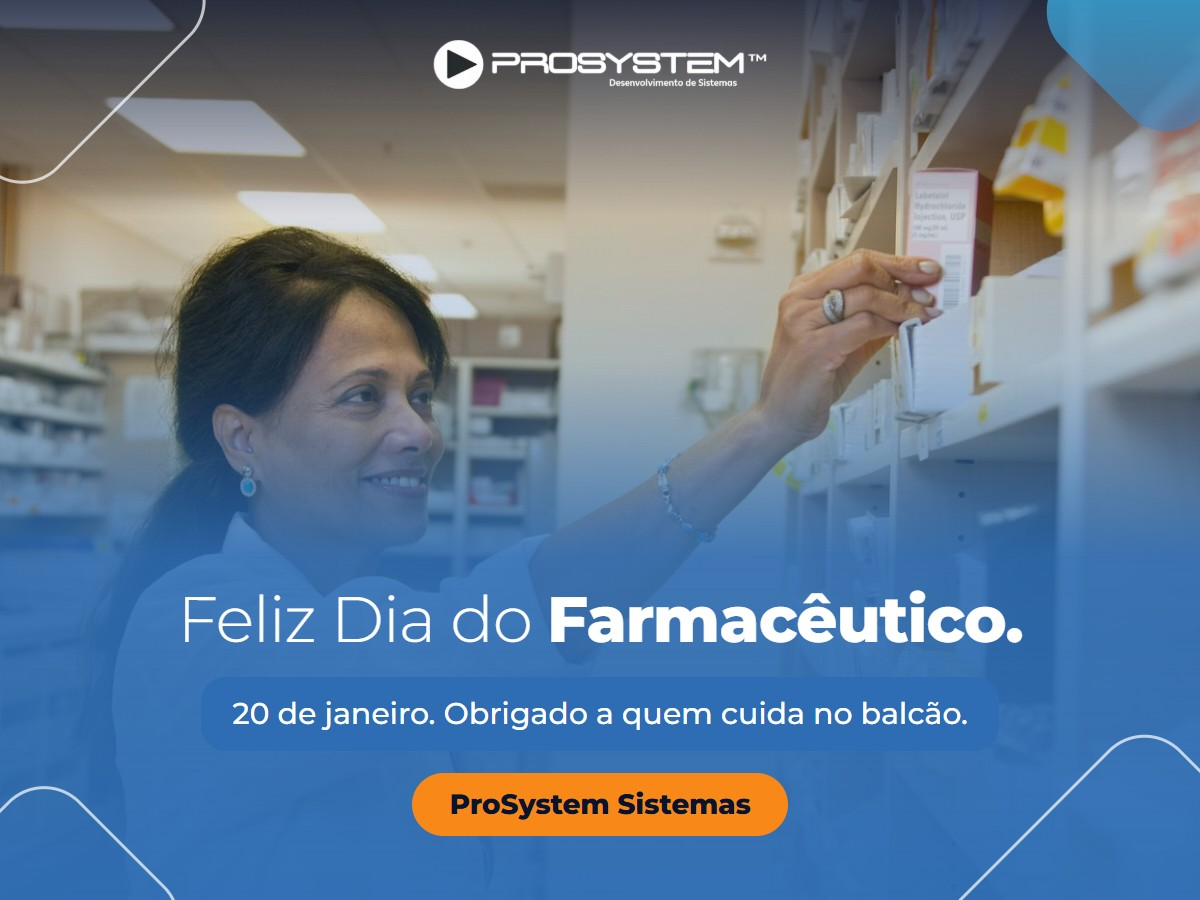
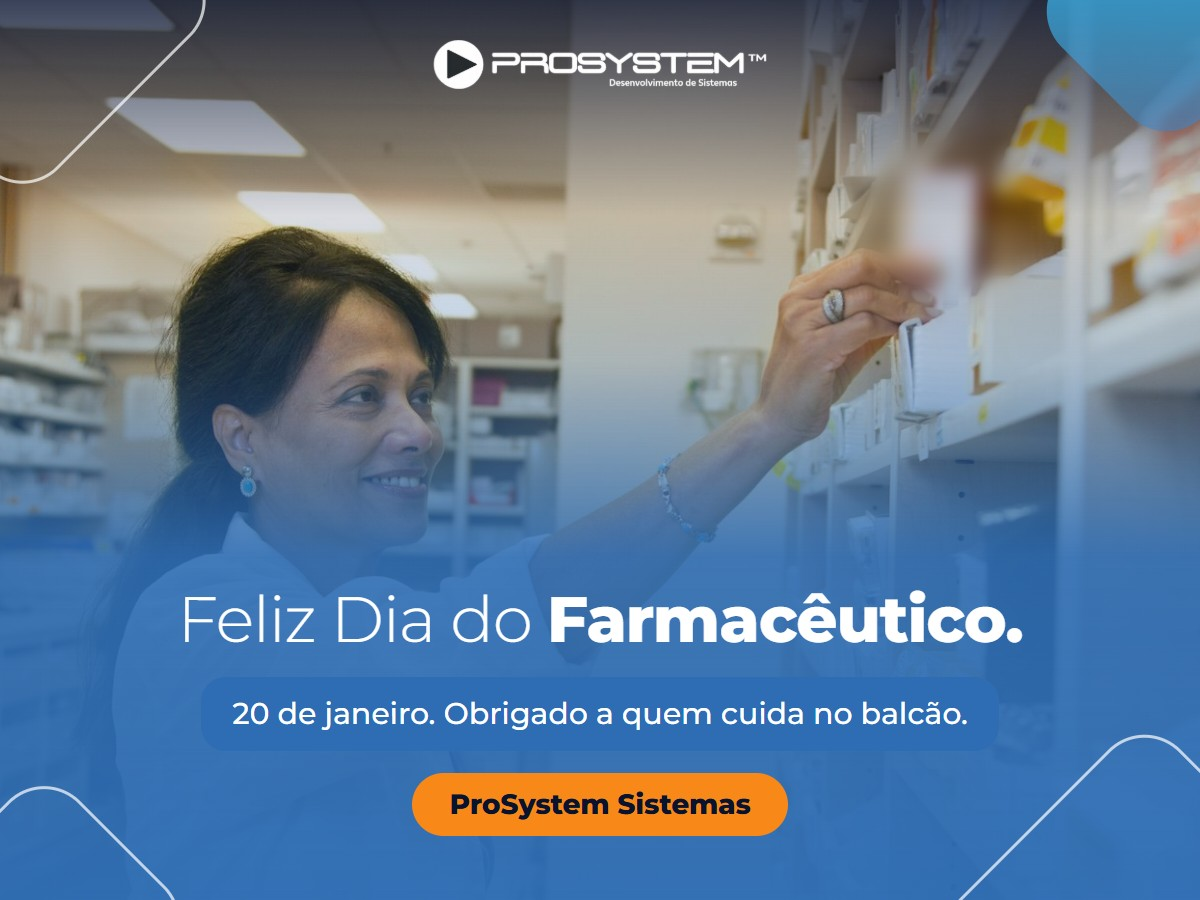
Postagens do Google de 05/11/2026 a 20/01/2027: 11 textos, imagens 1200x900 e guia para programar
Fotos desfocadas onde havia marca de remédio ou texto em inglês, e relatório da tarefa.

Changed region(s): [[0.7092, 0.1556, 0.8633, 0.3422]]

diff --git a/outputs/criativos/google-nov-jan/guia.html b/outputs/criativos/google-nov-jan/guia.html
@@ -84,7 +84,7 @@ button.copiar.ok{background:transparent;color:var(--azul)}
   <ol class="passos">
     <li><span>Entre na conta Google que administra o perfil da ProSystem e abra o <b>Perfil da Empresa</b> (pesquise "ProSystem Sistemas" no Google ou acesse business.google.com).</span></li>
     <li><span>Clique em <b>Adicionar atualização</b> (ou <b>Criar postagem</b>) e escolha o tipo <b>Atualização</b>.</span></li>
-    <li><span>Em <b>Adicionar fotos</b>, envie a imagem da ficha. Use o arquivo da pasta <code>outputs/criativos/google-nov-jan/imagens</code> ou abra o nome do arquivo na ficha e salve a imagem.</span></li>
+    <li><span>Em <b>Adicionar fotos</b>, envie a imagem da ficha. Clique com o botão direito na imagem da ficha e escolha <b>Salvar imagem como</b>. No computador, os mesmos arquivos estão em <code>outputs/criativos/google-nov-jan/imagens</code>.</span></li>
     <li><span>Clique em <b>Copiar texto</b> na ficha e cole na descrição.</span></li>
     <li><span>Em <b>Adicionar um botão</b>, escolha <b>Saiba mais</b> e cole o link da ficha.</span></li>
     <li><span>Ligue <b>Programar esta postagem</b> e escolha a data e a hora da ficha. Deixe <b>Repetições</b> desligado.</span></li>
@@ -143,7 +143,7 @@ button.copiar.ok{background:transparent;color:var(--azul)}
 <div><dt>Programar</dt><dd>05/11/2026 às 09:00</dd></div>
 <div><dt>Botão</dt><dd>Saiba mais</dd></div>
 <div><dt>Link</dt><dd><a href="https://prosystemnet.com/blog/simples-nacional-2027-prazo-opcao-ibs-cbs-farmacia-padaria/" target="_blank" rel="noopener">prosystemnet.com/blog/simples-nacional-2027-prazo-opcao-ibs-cbs-farmacia-padaria/</a><button class="copiar mini" data-alvo="l0">Copiar link</button><span hidden id="l0">https://prosystemnet.com/blog/simples-nacional-2027-prazo-opcao-ibs-cbs-farmacia-padaria/</span></dd></div>
-<div><dt>Imagem</dt><dd><a href="imagens/2026-11-05-reforma-tributaria-farmacia-2027.jpg" target="_blank" rel="noopener">2026-11-05-reforma-tributaria-farmacia-2027.jpg</a></dd></div>
+<div><dt>Imagem</dt><dd><code>2026-11-05-reforma-tributaria-farmacia-2027.jpg</code></dd></div>
 </dl>
 <div class="texto-topo"><span>Texto da postagem · 720 caracteres</span><button class="copiar" data-alvo="t0">Copiar texto</button></div>
 <pre class="texto" id="t0">Reforma tributária na farmácia: em 2027, a CBS entra no lugar do PIS e da Cofins, e o imposto muda dentro do preço de cada produto. Quem deixa a revisão para janeiro corre o risco de vender as primeiras semanas do ano com a margem errada.
@@ -167,7 +167,7 @@ No blog, veja o que muda no Simples Nacional em 2027 para farmácias e padarias.
 <div><dt>Programar</dt><dd>12/11/2026 às 09:00</dd></div>
 <div><dt>Botão</dt><dd>Saiba mais</dd></div>
 <div><dt>Link</dt><dd><a href="https://prosystemnet.com/blog/ficha-tecnica-padaria-padronizar-receitas-rendimento/" target="_blank" rel="noopener">prosystemnet.com/blog/ficha-tecnica-padaria-padronizar-receitas-rendimento/</a><button class="copiar mini" data-alvo="l1">Copiar link</button><span hidden id="l1">https://prosystemnet.com/blog/ficha-tecnica-padaria-padronizar-receitas-rendimento/</span></dd></div>
-<div><dt>Imagem</dt><dd><a href="imagens/2026-11-12-preco-pao-frances-ficha-tecnica.jpg" target="_blank" rel="noopener">2026-11-12-preco-pao-frances-ficha-tecnica.jpg</a></dd></div>
+<div><dt>Imagem</dt><dd><code>2026-11-12-preco-pao-frances-ficha-tecnica.jpg</code></dd></div>
 </dl>
 <div class="texto-topo"><span>Texto da postagem · 626 caracteres</span><button class="copiar" data-alvo="t1">Copiar texto</button></div>
 <pre class="texto" id="t1">Preço do pão francês: quando a farinha, o gás e a energia sobem e o preço na vitrine fica igual, a diferença sai do seu lucro. A Conab prevê produção de trigo 26% menor no Brasil em 2026, e entrar em 2027 com o preço antigo é vender muito e sobrar pouco.
@@ -188,7 +188,7 @@ No blog, veja como montar a ficha técnica da padaria e padronizar o rendimento 
 <div><dt>Programar</dt><dd>19/11/2026 às 09:00</dd></div>
 <div><dt>Botão</dt><dd>Saiba mais</dd></div>
 <div><dt>Link</dt><dd><a href="https://prosystemnet.com/blog/vender-mais-nao-e-lucrar-mais-margem-varejo/" target="_blank" rel="noopener">prosystemnet.com/blog/vender-mais-nao-e-lucrar-mais-margem-varejo/</a><button class="copiar mini" data-alvo="l2">Copiar link</button><span hidden id="l2">https://prosystemnet.com/blog/vender-mais-nao-e-lucrar-mais-margem-varejo/</span></dd></div>
-<div><dt>Imagem</dt><dd><a href="imagens/2026-11-19-black-friday-farmacia-desconto-margem.jpg" target="_blank" rel="noopener">2026-11-19-black-friday-farmacia-desconto-margem.jpg</a></dd></div>
+<div><dt>Imagem</dt><dd><code>2026-11-19-black-friday-farmacia-desconto-margem.jpg</code></dd></div>
 </dl>
 <div class="texto-topo"><span>Texto da postagem · 733 caracteres</span><button class="copiar" data-alvo="t2">Copiar texto</button></div>
 <pre class="texto" id="t2">Desconto na Black Friday: antes de colocar 10% em toda a loja, faça esta conta. Um produto que custa R$ 70 e sai por R$ 100 tem margem de 30%, ou R$ 30. Com 10% de desconto, a margem cai para R$ 20, e você precisa vender 50% a mais só para lucrar o mesmo.
@@ -209,7 +209,7 @@ A Black Friday é em 27/11. No blog, veja por que vender mais nem sempre é lucr
 <div><dt>Programar</dt><dd>25/11/2026 às 09:00</dd></div>
 <div><dt>Botão</dt><dd>Saiba mais</dd></div>
 <div><dt>Link</dt><dd><a href="https://prosystemnet.com/padaria/" target="_blank" rel="noopener">prosystemnet.com/padaria/</a><button class="copiar mini" data-alvo="l3">Copiar link</button><span hidden id="l3">https://prosystemnet.com/padaria/</span><small>Se o artigo já estiver no ar, use <code>prosystemnet.com/blog/encomendas-de-natal-padaria-5-combinados/</code>.</small></dd></div>
-<div><dt>Imagem</dt><dd><a href="imagens/2026-11-25-encomendas-natal-padaria.jpg" target="_blank" rel="noopener">2026-11-25-encomendas-natal-padaria.jpg</a></dd></div>
+<div><dt>Imagem</dt><dd><code>2026-11-25-encomendas-natal-padaria.jpg</code></dd></div>
 </dl>
 <div class="texto-topo"><span>Texto da postagem · 622 caracteres</span><button class="copiar" data-alvo="t3">Copiar texto</button></div>
 <pre class="texto" id="t3">Encomendas de Natal na padaria: o pedido anotado às pressas vira erro na retirada, em pleno dia 24. Combine as regras agora, um mês antes, e a lista de dezembro sai sem susto.
@@ -235,7 +235,7 @@ No blog, veja o modelo da ficha e o que muda para a padaria do Simples em 2027.<
 <div><dt>Programar</dt><dd>03/12/2026 às 09:00</dd></div>
 <div><dt>Botão</dt><dd>Saiba mais</dd></div>
 <div><dt>Link</dt><dd><a href="https://prosystemnet.com/contato/" target="_blank" rel="noopener">prosystemnet.com/contato/</a><button class="copiar mini" data-alvo="l4">Copiar link</button><span hidden id="l4">https://prosystemnet.com/contato/</span></dd></div>
-<div><dt>Imagem</dt><dd><a href="imagens/2026-12-03-sangria-caixa-dezembro.jpg" target="_blank" rel="noopener">2026-12-03-sangria-caixa-dezembro.jpg</a></dd></div>
+<div><dt>Imagem</dt><dd><code>2026-12-03-sangria-caixa-dezembro.jpg</code></dd></div>
 </dl>
 <div class="texto-topo"><span>Texto da postagem · 616 caracteres</span><button class="copiar" data-alvo="t4">Copiar texto</button></div>
 <pre class="texto" id="t4">Sangria de caixa em dezembro: com o 13º no bolso do cliente, o movimento sobe e o dinheiro acumula na gaveta. Quando a retirada depende da memória do operador, ela fica para depois, justo nos dias de mais risco.
@@ -256,7 +256,7 @@ Serve para farmácia e padaria. Fale com a ProSystem e veja como fica no seu cai
 <div><dt>Programar</dt><dd>10/12/2026 às 09:00</dd></div>
 <div><dt>Botão</dt><dd>Saiba mais</dd></div>
 <div><dt>Link</dt><dd><a href="https://prosystemnet.com/padaria/" target="_blank" rel="noopener">prosystemnet.com/padaria/</a><button class="copiar mini" data-alvo="l5">Copiar link</button><span hidden id="l5">https://prosystemnet.com/padaria/</span></dd></div>
-<div><dt>Imagem</dt><dd><a href="imagens/2026-12-10-kits-natal-padaria-combo.jpg" target="_blank" rel="noopener">2026-12-10-kits-natal-padaria-combo.jpg</a></dd></div>
+<div><dt>Imagem</dt><dd><code>2026-12-10-kits-natal-padaria-combo.jpg</code></dd></div>
 </dl>
 <div class="texto-topo"><span>Texto da postagem · 537 caracteres</span><button class="copiar" data-alvo="t5">Copiar texto</button></div>
 <pre class="texto" id="t5">Kit de Natal na padaria: panetone, pão e frios juntos vendem bem, mas o desconto calculado na hora, no caixa, gera fila e erro de preço.
@@ -277,7 +277,7 @@ Kits que vendem no Natal podem voltar em outras datas de 2027. Conheça o sistem
 <div><dt>Programar</dt><dd>17/12/2026 às 09:00</dd></div>
 <div><dt>Botão</dt><dd>Saiba mais</dd></div>
 <div><dt>Link</dt><dd><a href="https://prosystemnet.com/contato/" target="_blank" rel="noopener">prosystemnet.com/contato/</a><button class="copiar mini" data-alvo="l6">Copiar link</button><span hidden id="l6">https://prosystemnet.com/contato/</span></dd></div>
-<div><dt>Imagem</dt><dd><a href="imagens/2026-12-17-fechamento-caixa-whatsapp.jpg" target="_blank" rel="noopener">2026-12-17-fechamento-caixa-whatsapp.jpg</a></dd></div>
+<div><dt>Imagem</dt><dd><code>2026-12-17-fechamento-caixa-whatsapp.jpg</code></dd></div>
 </dl>
 <div class="texto-topo"><span>Texto da postagem · 521 caracteres</span><button class="copiar" data-alvo="t6">Copiar texto</button></div>
 <pre class="texto" id="t6">Fechamento de caixa no fim de ano: são os dias de mais venda e, muitas vezes, os dias em que o dono menos consegue estar na loja.
@@ -298,7 +298,7 @@ Quer começar 2027 acompanhando a loja de onde estiver? Fale com a ProSystem. O 
 <div><dt>Programar</dt><dd>07/01/2027 às 09:00</dd></div>
 <div><dt>Botão</dt><dd>Saiba mais</dd></div>
 <div><dt>Link</dt><dd><a href="https://prosystemnet.com/blog/simples-nacional-2027-prazo-opcao-ibs-cbs-farmacia-padaria/" target="_blank" rel="noopener">prosystemnet.com/blog/simples-nacional-2027-prazo-opcao-ibs-cbs-farmacia-padaria/</a><button class="copiar mini" data-alvo="l7">Copiar link</button><span hidden id="l7">https://prosystemnet.com/blog/simples-nacional-2027-prazo-opcao-ibs-cbs-farmacia-padaria/</span></dd></div>
-<div><dt>Imagem</dt><dd><a href="imagens/2027-01-07-simples-nacional-2027-ibs-cbs.jpg" target="_blank" rel="noopener">2027-01-07-simples-nacional-2027-ibs-cbs.jpg</a></dd></div>
+<div><dt>Imagem</dt><dd><code>2027-01-07-simples-nacional-2027-ibs-cbs.jpg</code></dd></div>
 </dl>
 <div class="texto-topo"><span>Texto da postagem · 713 caracteres</span><button class="copiar" data-alvo="t7">Copiar texto</button></div>
 <pre class="texto" id="t7">Simples Nacional 2027: a farmácia ou padaria que já era do Simples e estava em dia continua no regime, sem pedir nada. Quem não fez a opção até 30 de outubro de 2026 segue com o IBS e a CBS dentro do DAS, como os outros tributos.
@@ -322,7 +322,7 @@ No blog, veja o calendário completo. Dúvidas sobre o sistema: o suporte da Pro
 <div><dt>Programar</dt><dd>12/01/2027 às 09:00</dd></div>
 <div><dt>Botão</dt><dd>Saiba mais</dd></div>
 <div><dt>Link</dt><dd><a href="https://prosystemnet.com/blog/controle-de-sobras-padaria-ajustar-producao/" target="_blank" rel="noopener">prosystemnet.com/blog/controle-de-sobras-padaria-ajustar-producao/</a><button class="copiar mini" data-alvo="l8">Copiar link</button><span hidden id="l8">https://prosystemnet.com/blog/controle-de-sobras-padaria-ajustar-producao/</span></dd></div>
-<div><dt>Imagem</dt><dd><a href="imagens/2027-01-12-sobra-de-pao-padaria.jpg" target="_blank" rel="noopener">2027-01-12-sobra-de-pao-padaria.jpg</a></dd></div>
+<div><dt>Imagem</dt><dd><code>2027-01-12-sobra-de-pao-padaria.jpg</code></dd></div>
 </dl>
 <div class="texto-topo"><span>Texto da postagem · 597 caracteres</span><button class="copiar" data-alvo="t8">Copiar texto</button></div>
 <pre class="texto" id="t8">Sobra de pão na padaria é dinheiro que já virou farinha, gás, energia e hora de trabalho. O Sebrae recomenda registrar as sobras todo dia e usar esses dados para ajustar a produção.
@@ -346,7 +346,7 @@ No blog, veja o modelo de registro e o que fazer com o pão que sobrou.</pre>
 <div><dt>Programar</dt><dd>14/01/2027 às 09:00</dd></div>
 <div><dt>Botão</dt><dd>Saiba mais</dd></div>
 <div><dt>Link</dt><dd><a href="https://prosystemnet.com/blog/sncr-receita-eletronica-controlados-farmacia-2026/" target="_blank" rel="noopener">prosystemnet.com/blog/sncr-receita-eletronica-controlados-farmacia-2026/</a><button class="copiar mini" data-alvo="l9">Copiar link</button><span hidden id="l9">https://prosystemnet.com/blog/sncr-receita-eletronica-controlados-farmacia-2026/</span></dd></div>
-<div><dt>Imagem</dt><dd><a href="imagens/2027-01-14-sncr-receita-eletronica-controlados.jpg" target="_blank" rel="noopener">2027-01-14-sncr-receita-eletronica-controlados.jpg</a></dd></div>
+<div><dt>Imagem</dt><dd><code>2027-01-14-sncr-receita-eletronica-controlados.jpg</code></dd></div>
 </dl>
 <div class="texto-topo"><span>Texto da postagem · 542 caracteres</span><button class="copiar" data-alvo="t9">Copiar texto</button></div>
 <pre class="texto" id="t9">Receita eletrônica de controlados: desde 30 de outubro de 2026, as receitas de controle especial e de retenção emitidas eletronicamente precisam vir com numeração do SNCR, o sistema da Anvisa. A farmácia consulta a numeração e registra o uso, o que impede que a mesma receita seja aviada duas vezes.
@@ -368,7 +368,7 @@ No blog, veja o passo a passo do SNCR na drogaria.</pre>
 <div><dt>Programar</dt><dd>20/01/2027 às 09:00</dd></div>
 <div><dt>Botão</dt><dd>Saiba mais</dd></div>
 <div><dt>Link</dt><dd><a href="https://prosystemnet.com/drogaria/" target="_blank" rel="noopener">prosystemnet.com/drogaria/</a><button class="copiar mini" data-alvo="l10">Copiar link</button><span hidden id="l10">https://prosystemnet.com/drogaria/</span></dd></div>
-<div><dt>Imagem</dt><dd><a href="imagens/2027-01-20-dia-do-farmaceutico.jpg" target="_blank" rel="noopener">2027-01-20-dia-do-farmaceutico.jpg</a></dd></div>
+<div><dt>Imagem</dt><dd><code>2027-01-20-dia-do-farmaceutico.jpg</code></dd></div>
 </dl>
 <div class="texto-topo"><span>Texto da postagem · 526 caracteres</span><button class="copiar" data-alvo="t10">Copiar texto</button></div>
 <pre class="texto" id="t10">Dia do Farmacêutico, 20 de janeiro: hoje a ProSystem agradece a quem confere a receita, orienta o cliente e cuida de cada atendimento no balcão.

diff --git a/outputs/criativos/google-nov-jan/gerar.js b/outputs/criativos/google-nov-jan/gerar.js
@@ -33,9 +33,13 @@ const AJUSTES = `
 .bloco .pl{font-size:${px(25)};padding:${px(13)} ${px(34)}}
 `;
 
+// desfoque: a foto inteira (número, em px) ou só uma região ([x%, y%, raio em px]), para esconder marca ou texto legível.
 function peca(c) {
+  const base = `inset:0;width:100%;height:100%;object-position:${c.posicao}`;
+  const tudo = typeof c.desfoque === 'number' ? `;filter:blur(${c.desfoque}px);transform:scale(1.04)` : '';
+  const regiao = Array.isArray(c.desfoque) ? `<img class="ft" src="${img(c.foto)}" alt="" style="${base};z-index:1;filter:blur(9px);-webkit-mask-image:radial-gradient(circle ${c.desfoque[2]}px at ${c.desfoque[0]}% ${c.desfoque[1]}%,#000 60%,transparent 100%)">` : '';
   return `<div class="p ${c.tema} sob">
-<img class="ft" src="${img(c.foto)}" alt="" style="inset:0;width:100%;height:100%;object-position:${c.posicao}">
+<img class="ft" src="${img(c.foto)}" alt="" style="${base}${tudo}">${regiao}
 <div class="tom"></div>
 <i class="g" style="width:${px(260)};height:${px(260)};top:${px(-130)};left:${px(-110)};z-index:3"></i>
 <i class="gf" style="width:${px(180)};height:${px(180)};top:${px(-80)};right:${px(-60)};z-index:3"></i>
@@ -100,7 +104,7 @@ function guiaHtml() {
 <div><dt>Programar</dt><dd>${d} às 09:00</dd></div>
 <div><dt>Botão</dt><dd>${c.botao}</dd></div>
 <div><dt>Link</dt><dd><a href="${c.link}" target="_blank" rel="noopener">${c.link.replace('https://', '')}</a><button class="copiar mini" data-alvo="l${i}">Copiar link</button><span hidden id="l${i}">${c.link}</span>${c.linkDepois ? `<small>Se o artigo já estiver no ar, use <code>${c.linkDepois.replace('https://', '')}</code>.</small>` : ''}</dd></div>
-<div><dt>Imagem</dt><dd><a href="imagens/${arquivo(c)}" target="_blank" rel="noopener">${arquivo(c)}</a></dd></div>
+<div><dt>Imagem</dt><dd><code>${arquivo(c)}</code></dd></div>
 </dl>
 <div class="texto-topo"><span>Texto da postagem · ${c.texto.length} caracteres</span><button class="copiar" data-alvo="t${i}">Copiar texto</button></div>
 <pre class="texto" id="t${i}">${esc(c.texto)}</pre>

diff --git a/outputs/criativos/google-nov-jan/guia-modelo.html b/outputs/criativos/google-nov-jan/guia-modelo.html
@@ -84,7 +84,7 @@ button.copiar.ok{background:transparent;color:var(--azul)}
   <ol class="passos">
     <li><span>Entre na conta Google que administra o perfil da ProSystem e abra o <b>Perfil da Empresa</b> (pesquise "ProSystem Sistemas" no Google ou acesse business.google.com).</span></li>
     <li><span>Clique em <b>Adicionar atualização</b> (ou <b>Criar postagem</b>) e escolha o tipo <b>Atualização</b>.</span></li>
-    <li><span>Em <b>Adicionar fotos</b>, envie a imagem da ficha. Use o arquivo da pasta <code>outputs/criativos/google-nov-jan/imagens</code> ou abra o nome do arquivo na ficha e salve a imagem.</span></li>
+    <li><span>Em <b>Adicionar fotos</b>, envie a imagem da ficha. Clique com o botão direito na imagem da ficha e escolha <b>Salvar imagem como</b>. No computador, os mesmos arquivos estão em <code>outputs/criativos/google-nov-jan/imagens</code>.</span></li>
     <li><span>Clique em <b>Copiar texto</b> na ficha e cole na descrição.</span></li>
     <li><span>Em <b>Adicionar um botão</b>, escolha <b>Saiba mais</b> e cole o link da ficha.</span></li>
     <li><span>Ligue <b>Programar esta postagem</b> e escolha a data e a hora da ficha. Deixe <b>Repetições</b> desligado.</span></li>

diff --git a/outputs/criativos/google-nov-jan/dados.js b/outputs/criativos/google-nov-jan/dados.js
@@ -41,7 +41,7 @@ No blog, veja como montar a ficha técnica da padaria e padronizar o rendimento 
   },
   {
     data: '2026-11-19', dia: 'Qui 19/11', seg: 'Farmácia', id: 'black-friday-farmacia-desconto-margem', tema: 'azul',
-    foto: 'prateleiras-escuras', posicao: '50% 50%',
+    foto: 'prateleiras-escuras', posicao: '50% 50%', desfoque: 7,
     palavra: 'desconto na Black Friday',
     titulo: 'Desconto de 10% <b>pede 50% a mais de venda.</b>',
     faixa: 'Com margem de 30%, é a conta para empatar o lucro.', pilula: 'Faça a conta antes de 27/11',
@@ -174,7 +174,7 @@ No blog, veja o passo a passo do SNCR na drogaria.`,
   },
   {
     data: '2027-01-20', dia: 'Qua 20/01', seg: 'Farmácia', id: 'dia-do-farmaceutico', tema: 'azul',
-    foto: 'farmaceutica-prateleira', posicao: '50% 30%',
+    foto: 'farmaceutica-prateleira', posicao: '50% 30%', desfoque: [79, 24, 120],
     palavra: 'Dia do Farmacêutico',
     titulo: 'Feliz Dia do <b>Farmacêutico.</b>',
     faixa: '20 de janeiro. Obrigado a quem cuida no balcão.', pilula: 'ProSystem Sistemas',

diff --git a/docs/contexto/relatorios/2026-11-03-postagens-google-nov-a-jan.md b/docs/contexto/relatorios/2026-11-03-postagens-google-nov-a-jan.md
@@ -1,0 +1,50 @@
+# Postagens do Google: 05/11/2026 a 20/01/2027
+
+## Pedido
+
+"Crie posts para o Google, com imagens, e textos e me de o guia completo para que eu possa programar todos eles, quero ate o dia 20/01/2026". Hoje é 03/11/2026, então entendi como **20/01/2027**.
+
+## Feito
+
+- `outputs/criativos/google-nov-jan/`:
+  - `dados.js`: 11 postagens com data, texto, botão, link, palavra-chave e foto.
+  - `gerar.js`: gera as imagens em `imagens/` (1200 × 900, JPG), confere os textos e monta `GUIA.md` e `guia.html`.
+  - `guia-modelo.html`: modelo da página do guia.
+- Guia publicado (privado): https://claude.ai/artifact/AEjYS7Nny9Ftfw5LbvEUev. Tem o passo a passo para programar, as regras, o calendário e uma ficha por post, com botões para copiar o texto e o link.
+- Calendário: quintas às 9h, com pausa de 23/12 a 02/01. As exceções são 25/11 (encomendas, mesmo dia do Instagram e do blog), 12/01 (sobras) e 20/01 (Dia do Farmacêutico). São 4 posts de farmácia, 4 de padaria e 3 para os dois.
+- Nada foi publicado nem programado no Google.
+
+## Verificado
+
+- Ajuda oficial do Google (support.google.com/business/answer/7342169), lida em 03/11/2026: há três tipos de postagem e dá para programar com "Programar esta postagem". Postagem com telefone pode ser recusada. Postagens com mais de 6 meses são arquivadas. Produtos farmacêuticos estão entre os setores com conteúdo limitado.
+- Política de conteúdo (support.google.com/contributionpolicy/answer/7400114): a postagem não pode ter e-mail, telefone nem link de rede social.
+- `gerar.js` sem problema nas 11: no máximo 1.500 caracteres, palavra-chave na primeira frase, 2027 em todos, sem telefone, e-mail ou "24 horas", padaria sem falar de farmácia, nenhuma foto repetida e texto dentro do quadrado central da imagem, longe do logo.
+- Sitemaps públicos do site: todos os links dos botões estavam no ar em 03/11/2026. Li os pontos principais dos artigos do SNCR, do Simples 2027, das sobras e da margem, e os textos seguem esses artigos.
+- Vi as 11 imagens em folha de contato. Em tamanho real, vi só Black Friday, SNCR e Dia do Farmacêutico.
+- **Não verificado:**
+  - o tamanho 1200 × 900, que vem de guias de terceiros, porque a página oficial não informa;
+  - os nomes dos botões na tela do Google, que podem mudar;
+  - a página do guia em celular;
+  - o dado da Conab (26% menos trigo), reaproveitado do post de 11/11 sem nova consulta à fonte.
+
+## Decisões e porquês
+
+- **Textos novos.** Os 11 a 12 textos do Google do planejamento (Claude Docs) não foram lidos, porque esta sessão não tinha o conector do Claude Docs. Os temas acompanham o calendário do Instagram em `outputs/criativos/nov-dez/legendas.md`.
+- **Foto com degradê e texto centralizado.** As telas do sistema ficaram de fora porque os mockups são feitos pela Jessica. O texto fica no centro porque o Google corta algumas imagens em quadrado.
+- **Fotos trocadas ou desfocadas:**
+  - SNCR: o frasco tinha texto em inglês, e a foto virou `teclado-azul`;
+  - Black Friday: as marcas de remédio ficaram legíveis, e a foto inteira foi desfocada;
+  - Dia do Farmacêutico: uma caixa tinha texto em inglês, e só essa região foi desfocada.
+- **Fotos de remédio em close ficaram de fora,** pela regra do Google sobre produtos farmacêuticos.
+- **Links do 25/11 e do 17/12.** O botão de 25/11 vai para /padaria/, porque o artigo de encomendas ainda não está no ar. O link do artigo fica anotado na ficha. O post de 17/12 diz que o WhatsApp é da versão Plus.
+- **Função do sistema só quando está no mapa** (`docs/conteudo-prosystem/mapa-funcoes.csv`). Simples e SNCR não citam função.
+
+## Pendente
+
+- **Jessica:** aprovar os textos e as imagens e programar cada postagem no Perfil da Empresa.
+- **Jessica:** se o artigo de encomendas for publicado até 25/11, trocar o link do botão.
+- **Jessica:** autorizar a correção do artigo do SNCR, que ainda fala de 30/10 no futuro, antes do post de 14/01.
+
+## Próxima sessão
+
+Se ela pedir alterações, mude `dados.js`, rode `node outputs/criativos/google-nov-jan/gerar.js` e publique de novo `guia.html` no mesmo link, com as imagens em `files`. Skills: `relatorio-final`.
